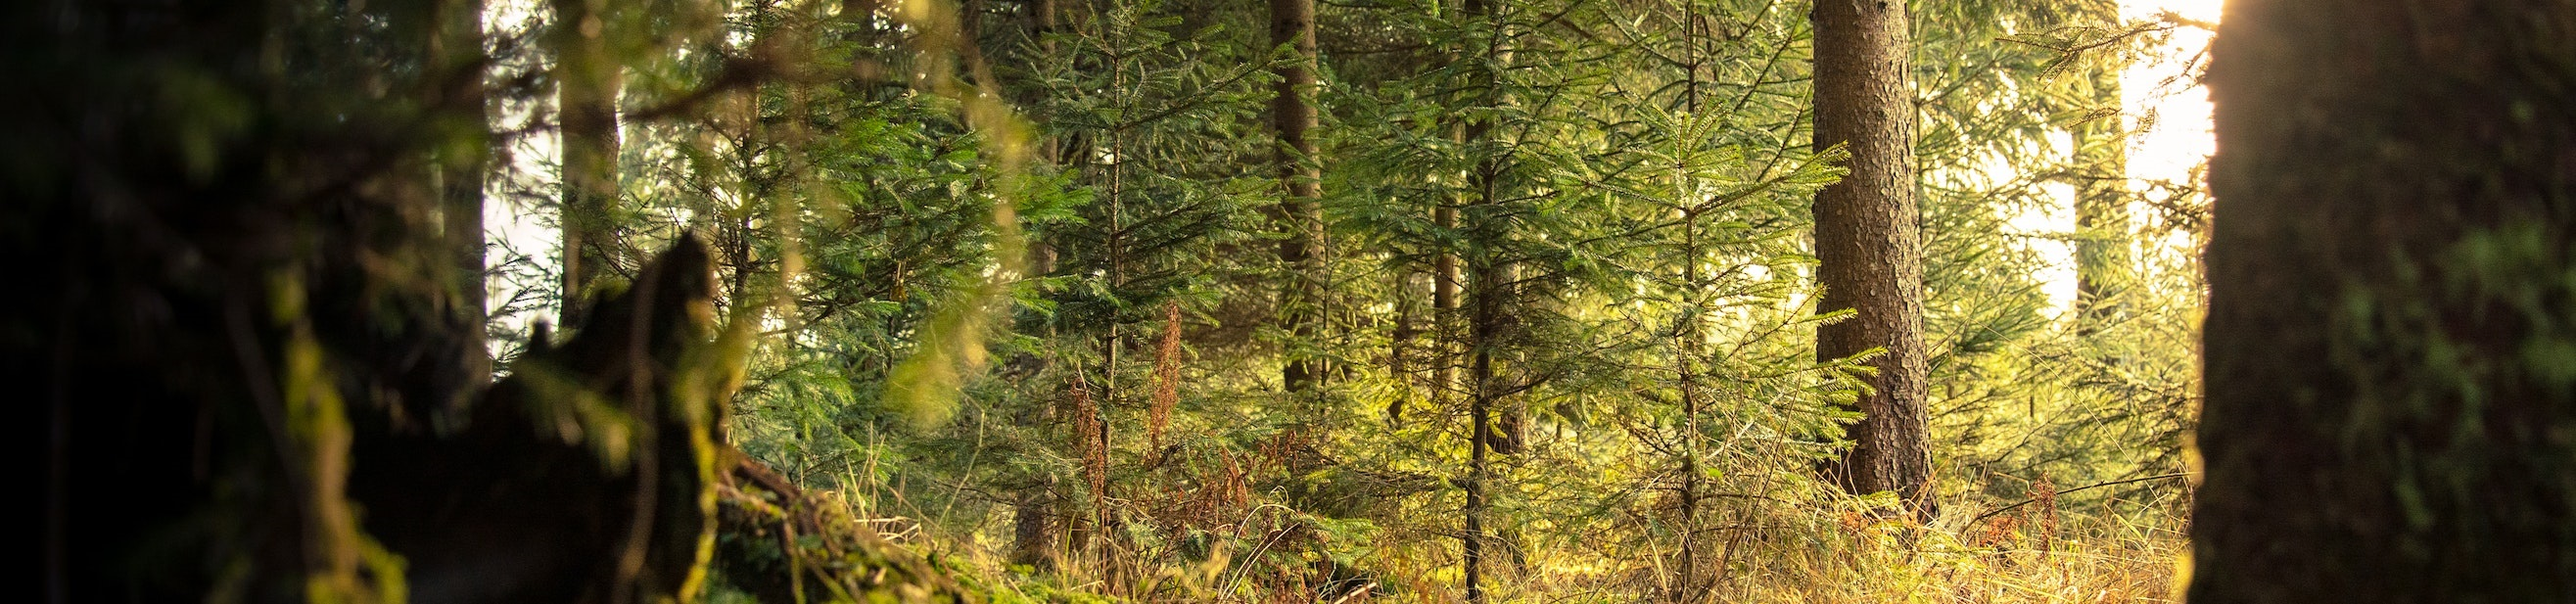
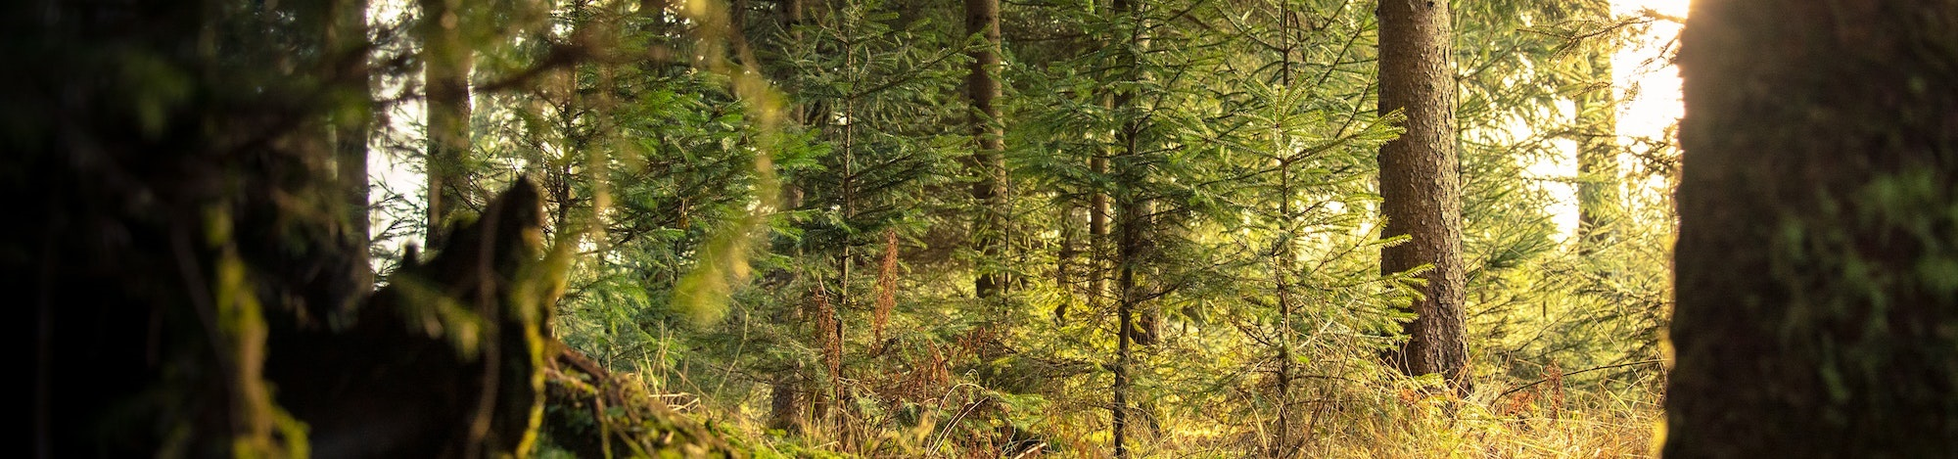
changed sizes of some images to improve lighthouse performance

diff --git a/index.html b/index.html
@@ -43,11 +43,11 @@
     </section>
 
     <div id="blog-section">
-        <img src='./assets/images/brown-squirrel.jpg' width="400" height="300" alt='reddish brown squirrel perched on moss covered log'>
+        <img src='./assets/images/brown-squirrel.jpg' width="400" height="300" loading="lazy" alt='reddish brown squirrel perched on moss covered log'> 
         <a href="/blogs.html#first-blog" id="blog-one"><strong>How Nature Can Help Heal Our Planet</strong><br>Study shows that climate solutions in nature can equal stopping the burning of oil annually. An overabundance of man-made carbon dioxide is heating up our atmosphere...</a>
-        <img src='./assets/images/boots-on-log.jpg' width="400" height="300" alt='brown laced boots stood on moss covered rock'>
+        <img src='./assets/images/boots-on-log.jpg' width="400" height="300" loading="lazy" alt='brown laced boots stood on moss covered rock'>
         <a href="/blogs.html#second-blog" id="blog-two"><strong>5 Ways to Start Being More Sustainable</strong><br>In today's day and age, learning how to be more sustainable is more than a trend—it's an imperative. As a consequence of the expansion of human civilization, our planet is suffering...</a>
-        <img src='./assets/images/colorful-wildflowers.jpg' width="400" height="300" alt='field of colorful wildflowers'>
+        <img src='./assets/images/colorful-wildflowers.jpg' width="400" height="300" loading="lazy" alt='field of colorful wildflowers'>
         <a href="/blogs.html#third-blog" id="blog-three"><strong>Wildflower Food Forage</strong><br>We all know wildflowers are imperative to a healthy envrionment. But did you know they are also healthy for us? This spring is the perfect time to start your wild cooking journey...</a>
     </div>
 

diff --git a/assets/css/style.css b/assets/css/style.css
@@ -176,7 +176,6 @@ h1, h2 {
 }
 
 /* podcasts */
-
 #podcasts h3 {
     color: #6A761Aff;
     text-align: center;
@@ -193,7 +192,6 @@ h1, h2 {
     gap: 1rem;
     align-items: center;
 }
-
 
 /* social media and copyright */
 footer {
@@ -505,6 +503,12 @@ label {
 
 /* large tablets */
 @media (max-width: 770px) {
+    #main-image {
+    height: 95%;
+    width: 100%;
+    background: url(../images/hero-image-forest-smaller.jpg) no-repeat center center;
+    }
+
     #left-about {
         padding-top: 5px;
         width: 100%;
@@ -607,6 +611,7 @@ label {
 
 /* medium screens media q */
 @media (max-width: 450px) {
+
     #logo {
         font-size: 180%;
     }

diff --git a/README.md b/README.md
@@ -1,6 +1,7 @@
 # **Bear Minimum**
 ## **Site Overview**
 Bear Minimum is an info-tainment (information/entertainment) website educating users on sustainability. The main aim of the website is provide useful advice and information about ways to slowly create a sustainable lifestyle in modern society as well as encourage users to 'get back to nature'. There's very little out there about general encouragement to lead a slightly more sustainible life, a lot of the media around being environmentally friendly is 100% effort or nothing. This website is trying to bridge this gap and create a more positive outlook on both sustainibility and Climate Change. (*Some of the images used in this README.md are slightly out of date and the area's have been since modified - however these changes are minor enough not to warrant new screenshots)
+![Responsive Screenshot](/docs/screenshot/am-i-responsive.png)
 ## Table of Contents:
 1. [**Site Overview**](#site-overview)
 1. [**Planning**](#planning)
@@ -163,10 +164,7 @@ Bear Minimum is an info-tainment (information/entertainment) website educating u
 * From the project's repository, go to the Settings tab.
 * From the left-hand menu, select the Pages tab.
 * Under the Source section, select the Main branch from the drop-down menu and click Save.
-* https://pur3-malice.github.io/bear-minimum/
-*One issue i found after deployment tis that some images were not loading through. Bar one which used the realtive file path starting with '..'. I then changed all the images to this type of file path.
-
-
+* [Bear Minimum](https://pur3-malice.github.io/bear-minimum/index.html)
 ## **During Development Testing**
 During the development process, I was manually testing in the following ways:-
 1. Manually testing each element for appearance and responsiveness via a simulated live server using an extension in VSCode.
@@ -179,9 +177,13 @@ During the development process, I was manually testing in the following ways:-
 * I then used the devtools to simulate different screen sizes/devices from 320px up to 2200px in width. 
 * In addition to this, I used the dev tools to simulate different products such as the iPhone XR, iPhone 12 Pro, Samsung Galaxy S8+, iPad Air, iPad Mini, Surface Pro 7 and Nest Hub.
 * I also got freinds and my partner to test the site on their own devices - Samsung, Dell Laptops, Self-built desktops and Apple products. 
-
 ### ***Bugs and Fixes:***
 Below is a list of bugs I found during the development process. Alot of the bugs and fixes where minor enough that temporary editing in the devtools allowed me to find a quick and simple soultions to most of the bugs almost instantly. But here are a few that stumped me enough to write them down.
+1. **Intended Outcome** - All Images to appear on deployed site.
+    * ***Issue Found:*** 
+        * All bar one image actaully showed up on my deployed site when looking at it.
+    * ***Solution Used:*** 
+        * One issue I found after deployment is that some images were not loading through. All bar one which used the realtive file path starting with './'. I then changed all the images to this type of file path and made soem amendments to the file path names so they went to the right places - as some hadn't been updated and I had since moved things around.
 1. **Intended Outcome** - The Sign Up form central on the background image
     * ***Issue Found:*** 
         * I wanted to have the input form to be centralised over an image. However i ran into issues when trying to have the form flaot over the image whilst staying in the missle of the screen. It kept either flaoting below the image and making a gap between the image and the footer - or it was stuck to the top image .
@@ -232,14 +234,15 @@ Below is a list of bugs I found during the development process. Alot of the bugs
 ![CSS badge](/docs/screenshot/css-validator.png)
 ### **Lighthouse Scores**
 ### **Test conditions**
-* I did all lighthouse tests in incognito mode to avoid interference from browser extensions. 
-* I ran the tests for both mobile and desktop. 
+* I performed the lighthouse tests in incognito mode. I ran the tests for both mobile and desktop. 
 #### ***Desktop Version:***
-I have only included one screenshot for desktop as all pages were the same score, only changing by one or two points in performance if I ran it multiple times. 
+All desktop scores were the same 
 
-![Desktop Lighthouse Score](docs/screenshots/lighthouse-desktop.jpg) 
+![Lighthouse Desktop Score](docs/screenshots/desk-top-lighthouse.jpg) 
 
-**There were several actions required to get to this score:**
+* I wasn't best please with the lower performance score - I dug into this and it turns out that the Cumulative Layout Shift was the cause for this lower score. This I think either comes from the amount of media queires I have used OR the large images utilised on the blog page and the signup page. Either way I am still happy with a 92, especailly if it means that i can keep my bright and airy layout with an extremly responsive layout.
+
+
 
 ### **Accessability**
-In addition to the accessability score on light house I also used [WAVE - Web accessability evaluation tool](https://wave.webaim.org/) to check my pages for accessability and no errors were returned. 
+In addition to other tests, I was also inspired to use [WAVE - Web accessability evaluation tool](https://wave.webaim.org/) by dnlbowers to check my pages for accessability. no errors were returned - I was especially concerned with the contrast of my signup page but beforehand I had increased the font-weight and size so this was mitigated.
